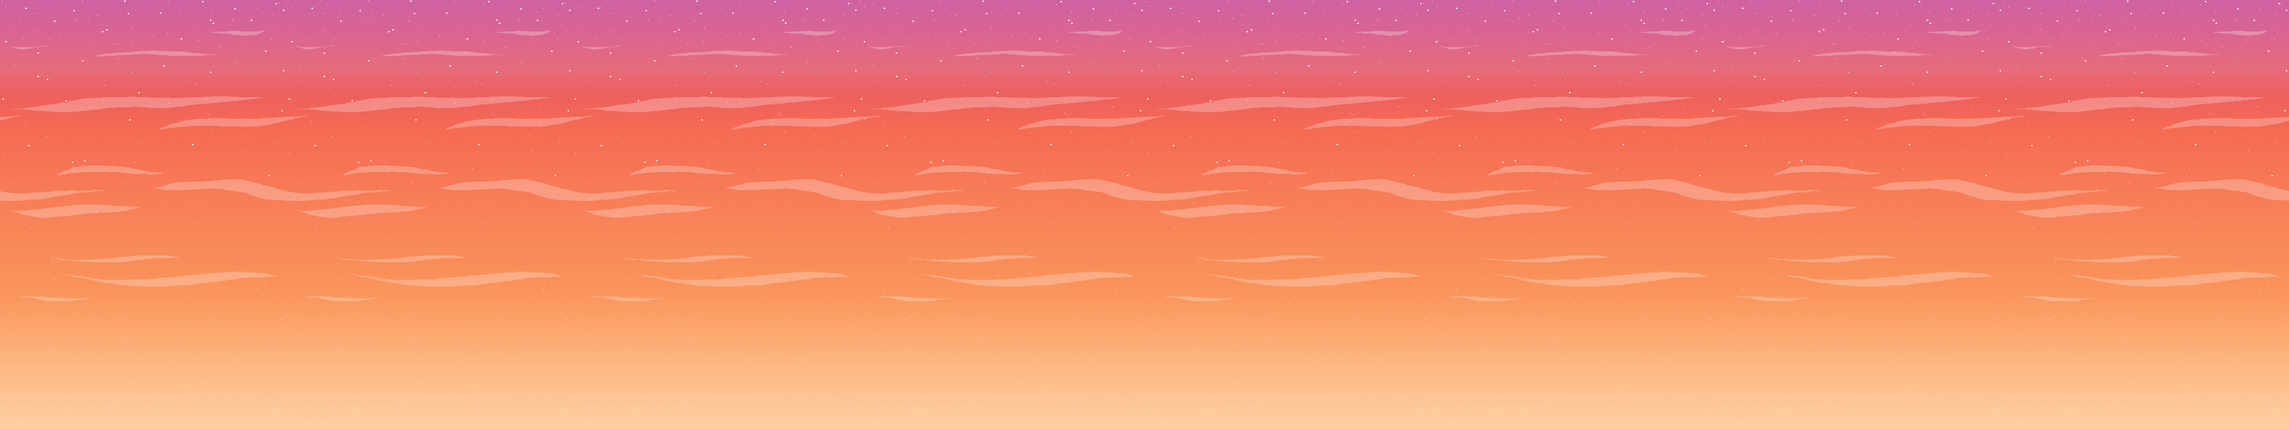
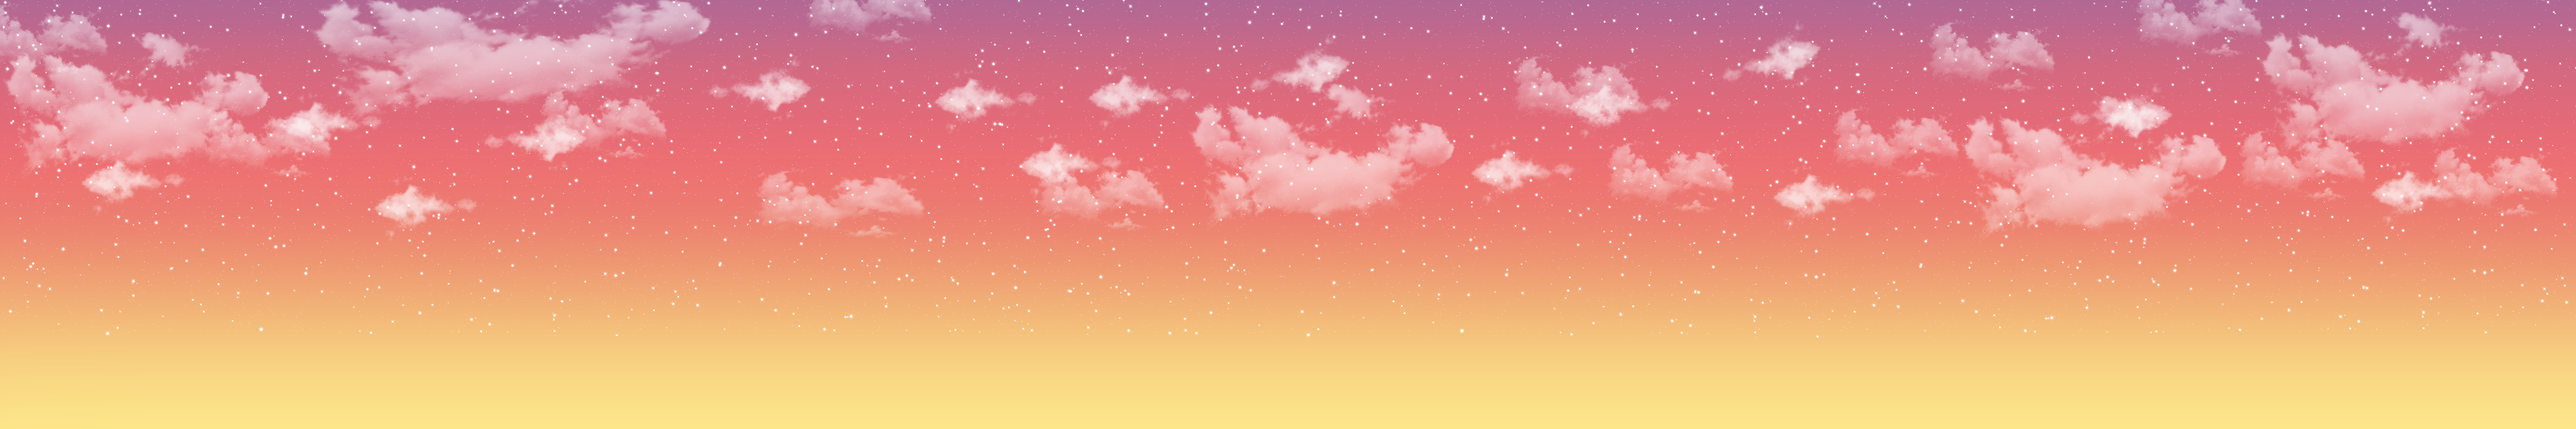
adaptable controls, death scene, new art

diff --git a/src/sprites/Dialog.js b/src/sprites/Dialog.js
@@ -6,6 +6,7 @@ import { dialogue } from '../utils'
 export default class extends Phaser.Sprite {
   constructor ({ game, x, y }) {
     super(game, x, y, 'shroud')
+    this.game = game
     this.textBoxes = []
     this.otherBox = null
     this.style = {
@@ -22,8 +23,11 @@ export default class extends Phaser.Sprite {
     this.currentTimer = null
     this.nextIndex = -1
     this.currValue = null
-    var space = game.input.keyboard.addKey(Phaser.Keyboard.SPACEBAR)
-    space.onDown.add(this.skipDialog, this)
+    this.dead = false
+    var key = game.input.keyboard.addKey(Phaser.Keyboard.SPACEBAR)
+    key.onDown.add(this.skipDialog, this)
+    key = this.game.input.keyboard.addKey(Phaser.KeyCode.ENTER)
+    key.onDown.add(this.skipDialog, this)
   }
 
   startConvo (name) {
@@ -34,6 +38,18 @@ export default class extends Phaser.Sprite {
   }
 
   respond (index) {
+    if (this.dead) {
+      // You are dead, phase two
+      this.game.player.alpha = 0
+      this.visible = false
+      this.deathtext.destroy()
+      this.game.add.text(340, 130, 'The End', {
+        font: '24pt Arial',
+        fill: '#000000'
+      })
+      this.game.state.getCurrentState().die()
+      return
+    }
     if (this.orb.drain(1)) {
       this.currNode = this.dialogTree.next(index)
       if (this.currNode.done) {
@@ -44,7 +60,25 @@ export default class extends Phaser.Sprite {
         this.display(this.currNode.value, 0)
       }
     } else {
-      // TODO: you are dead
+      // You are dead, phase one
+      this.dead = true
+      this.tint = 0x552222
+      this.game.player.alpha = 0.20
+      this.deathtext = this.game.add.text(
+        150,
+        520,
+        'Your time is up. Choose your last words.',
+        {
+          font: '24pt Arial',
+          fill: '#ffffff'
+        }
+      )
+      this.otherBox.destroy()
+      this.setPlayerText([
+        "I'm sorry, I have to go now. Take care, and live well.",
+        'Thank you for everything. Life was pretty good here.',
+        'Just remember me when you see the setting sun.'
+      ])
     }
   }
 

diff --git a/src/main.js b/src/main.js
@@ -4,29 +4,36 @@ import Phaser from 'phaser'
 
 import BootState from './states/Boot'
 import SplashState from './states/Splash'
+import StartState from './states/Start'
 import GameState from './states/Game'
+import EndState from './states/End'
 
 import config from './config'
 
 class Game extends Phaser.Game {
   constructor () {
     const docElement = document.documentElement
-    const width =
-      docElement.clientWidth > config.gameWidth
-        ? config.gameWidth
-        : docElement.clientWidth
-    const height =
-      docElement.clientHeight > config.gameHeight
-        ? config.gameHeight
-        : docElement.clientHeight
+    const width = docElement.clientWidth > config.gameWidth
+      ? config.gameWidth
+      : docElement.clientWidth
+    const height = docElement.clientHeight > config.gameHeight
+      ? config.gameHeight
+      : docElement.clientHeight
 
     super(width, height, Phaser.CANVAS, 'content', null)
 
     this.state.add('Boot', BootState, false)
     this.state.add('Splash', SplashState, false)
+    this.state.add('Start', StartState, false)
     this.state.add('Game', GameState, false)
+    this.state.add('End', EndState, false)
 
     this.state.start('Boot')
+  }
+
+  die () {
+    console.log('Really Dead')
+    this.state.start('Game')
   }
 }
 

diff --git a/src/states/Game.js b/src/states/Game.js
@@ -5,7 +5,9 @@ import Dialog from '../sprites/Dialog'
 // import Mushroom from '../sprites/Mushroom'
 
 export default class extends Phaser.State {
-  init () {}
+  init () {
+    console.log('hey')
+  }
   preload () {}
 
   create () {
@@ -20,7 +22,6 @@ export default class extends Phaser.State {
     for (let i = 0; i <= this.game.gameWidth + 256; i += 256) {
       this.game.add.sprite(i, 600 - 128, 'ground')
     }
-
     this.game.npcs = [
       new NPC({
         game: this.game,
@@ -63,11 +64,11 @@ export default class extends Phaser.State {
         mandatory: false
       })
     ]
-
     for (let i = 0; i < this.game.npcs.length; i++) {
       this.game.add.existing(this.game.npcs[i])
     }
 
+    // player
     this.game.player = new Player({
       game: this.game,
       x: 100,
@@ -92,6 +93,15 @@ export default class extends Phaser.State {
       Phaser.KeyCode.LEFT,
       Phaser.KeyCode.RIGHT
     ])
+  }
+
+  die () {
+    console.log('Dead')
+    // this.game.camera.fade()
+    this.game.die()
+    // this.game.camera.onFadeComplete.add(() => {
+    //   this.state.start('End')
+    // }, this)
   }
 
   render () {

diff --git a/src/sprites/Player.js b/src/sprites/Player.js
@@ -29,9 +29,15 @@ export default class extends Phaser.Sprite {
   }
 
   update () {
-    var left = this.game.input.keyboard.isDown(Phaser.KeyCode.LEFT)
-    var right = this.game.input.keyboard.isDown(Phaser.KeyCode.RIGHT)
-    var space = this.game.input.keyboard.isDown(Phaser.KeyCode.SPACEBAR)
+    var left =
+      this.game.input.keyboard.isDown(Phaser.KeyCode.LEFT) ||
+      this.game.input.keyboard.isDown(Phaser.KeyCode.A)
+    var right =
+      this.game.input.keyboard.isDown(Phaser.KeyCode.RIGHT) ||
+      this.game.input.keyboard.isDown(Phaser.KeyCode.D)
+    var space =
+      this.game.input.keyboard.isDown(Phaser.KeyCode.SPACEBAR) ||
+      this.game.input.keyboard.isDown(Phaser.KeyCode.ENTER)
     var bounds = this.game.world.getBounds()
 
     // Abort if paused

diff --git a/src/sprites/Orb.js b/src/sprites/Orb.js
@@ -4,7 +4,7 @@ export default class extends Phaser.Sprite {
   constructor ({ game, x, y }) {
     super(game, x, y, 'orb')
     this.anchor.setTo(0.5, 1.0)
-    this.maxlevel = 30
+    this.maxlevel = 21
     this.level = this.maxlevel
 
     this.contents = game.add.sprite(0, 0, 'orbfill')
@@ -27,6 +27,7 @@ export default class extends Phaser.Sprite {
     }, 50)
 
     if (this.level <= 0) {
+      this.contents.visible = false
       return false
     } else {
       let proportionleft = this.level / this.maxlevel
